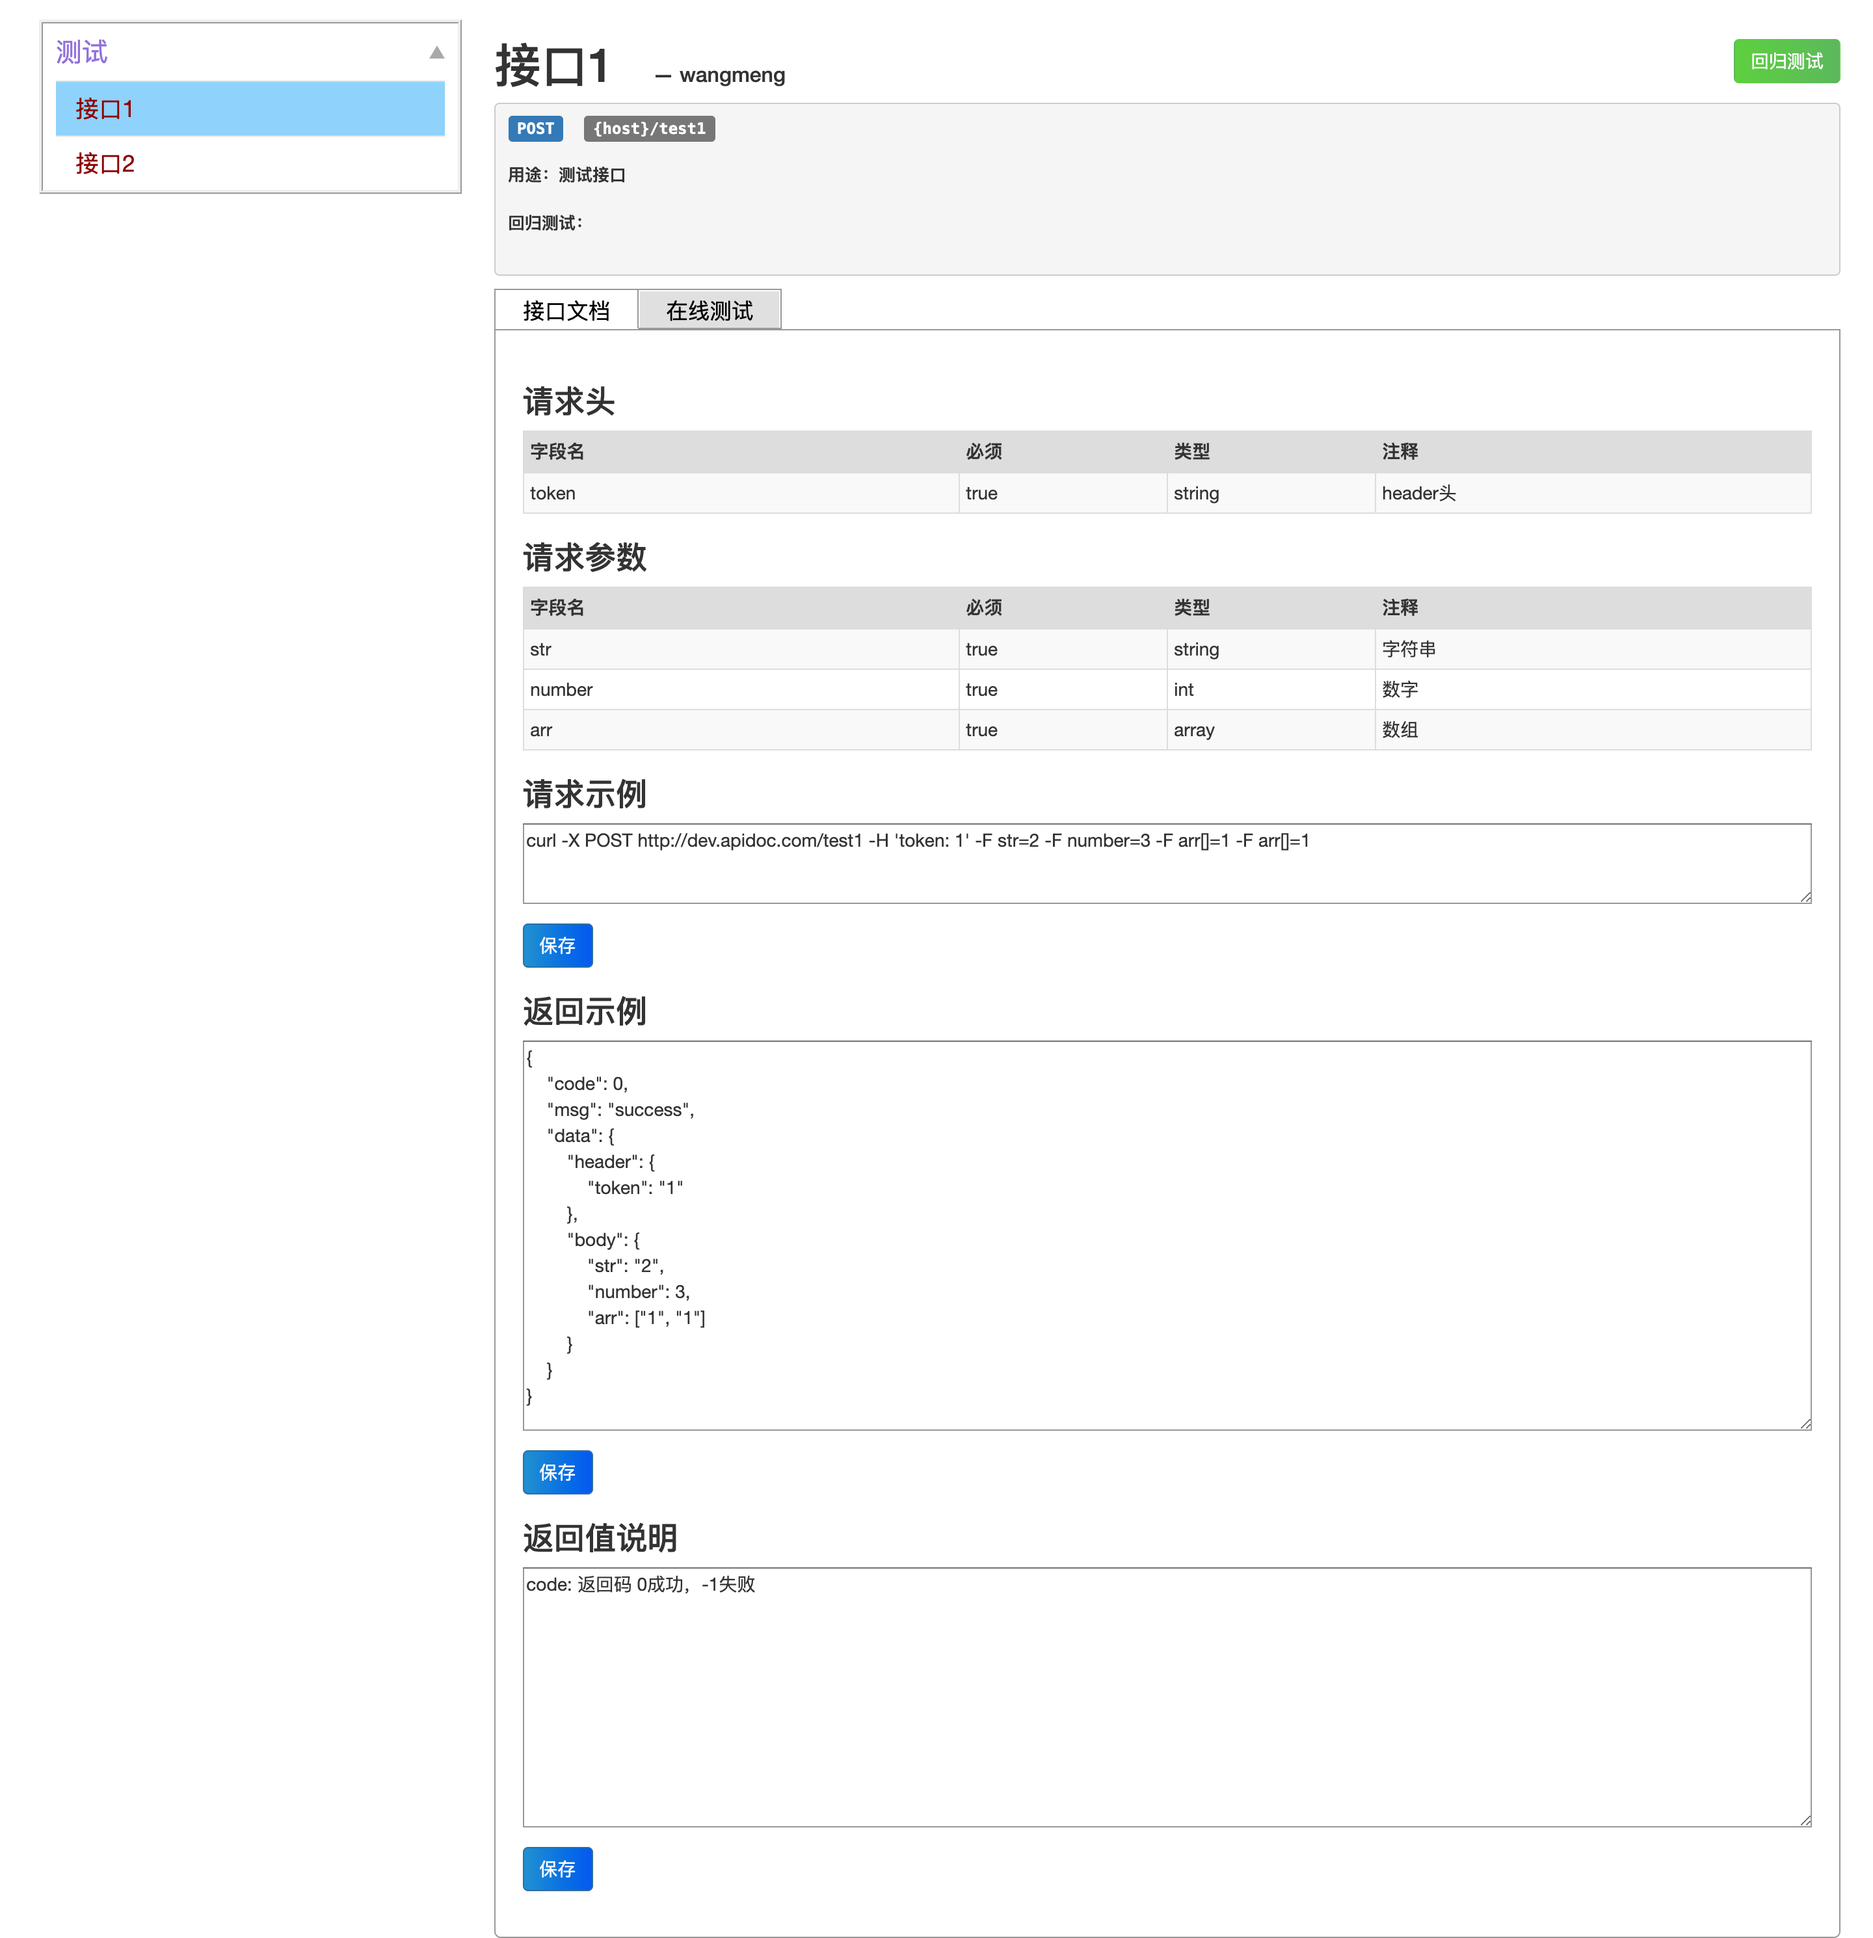
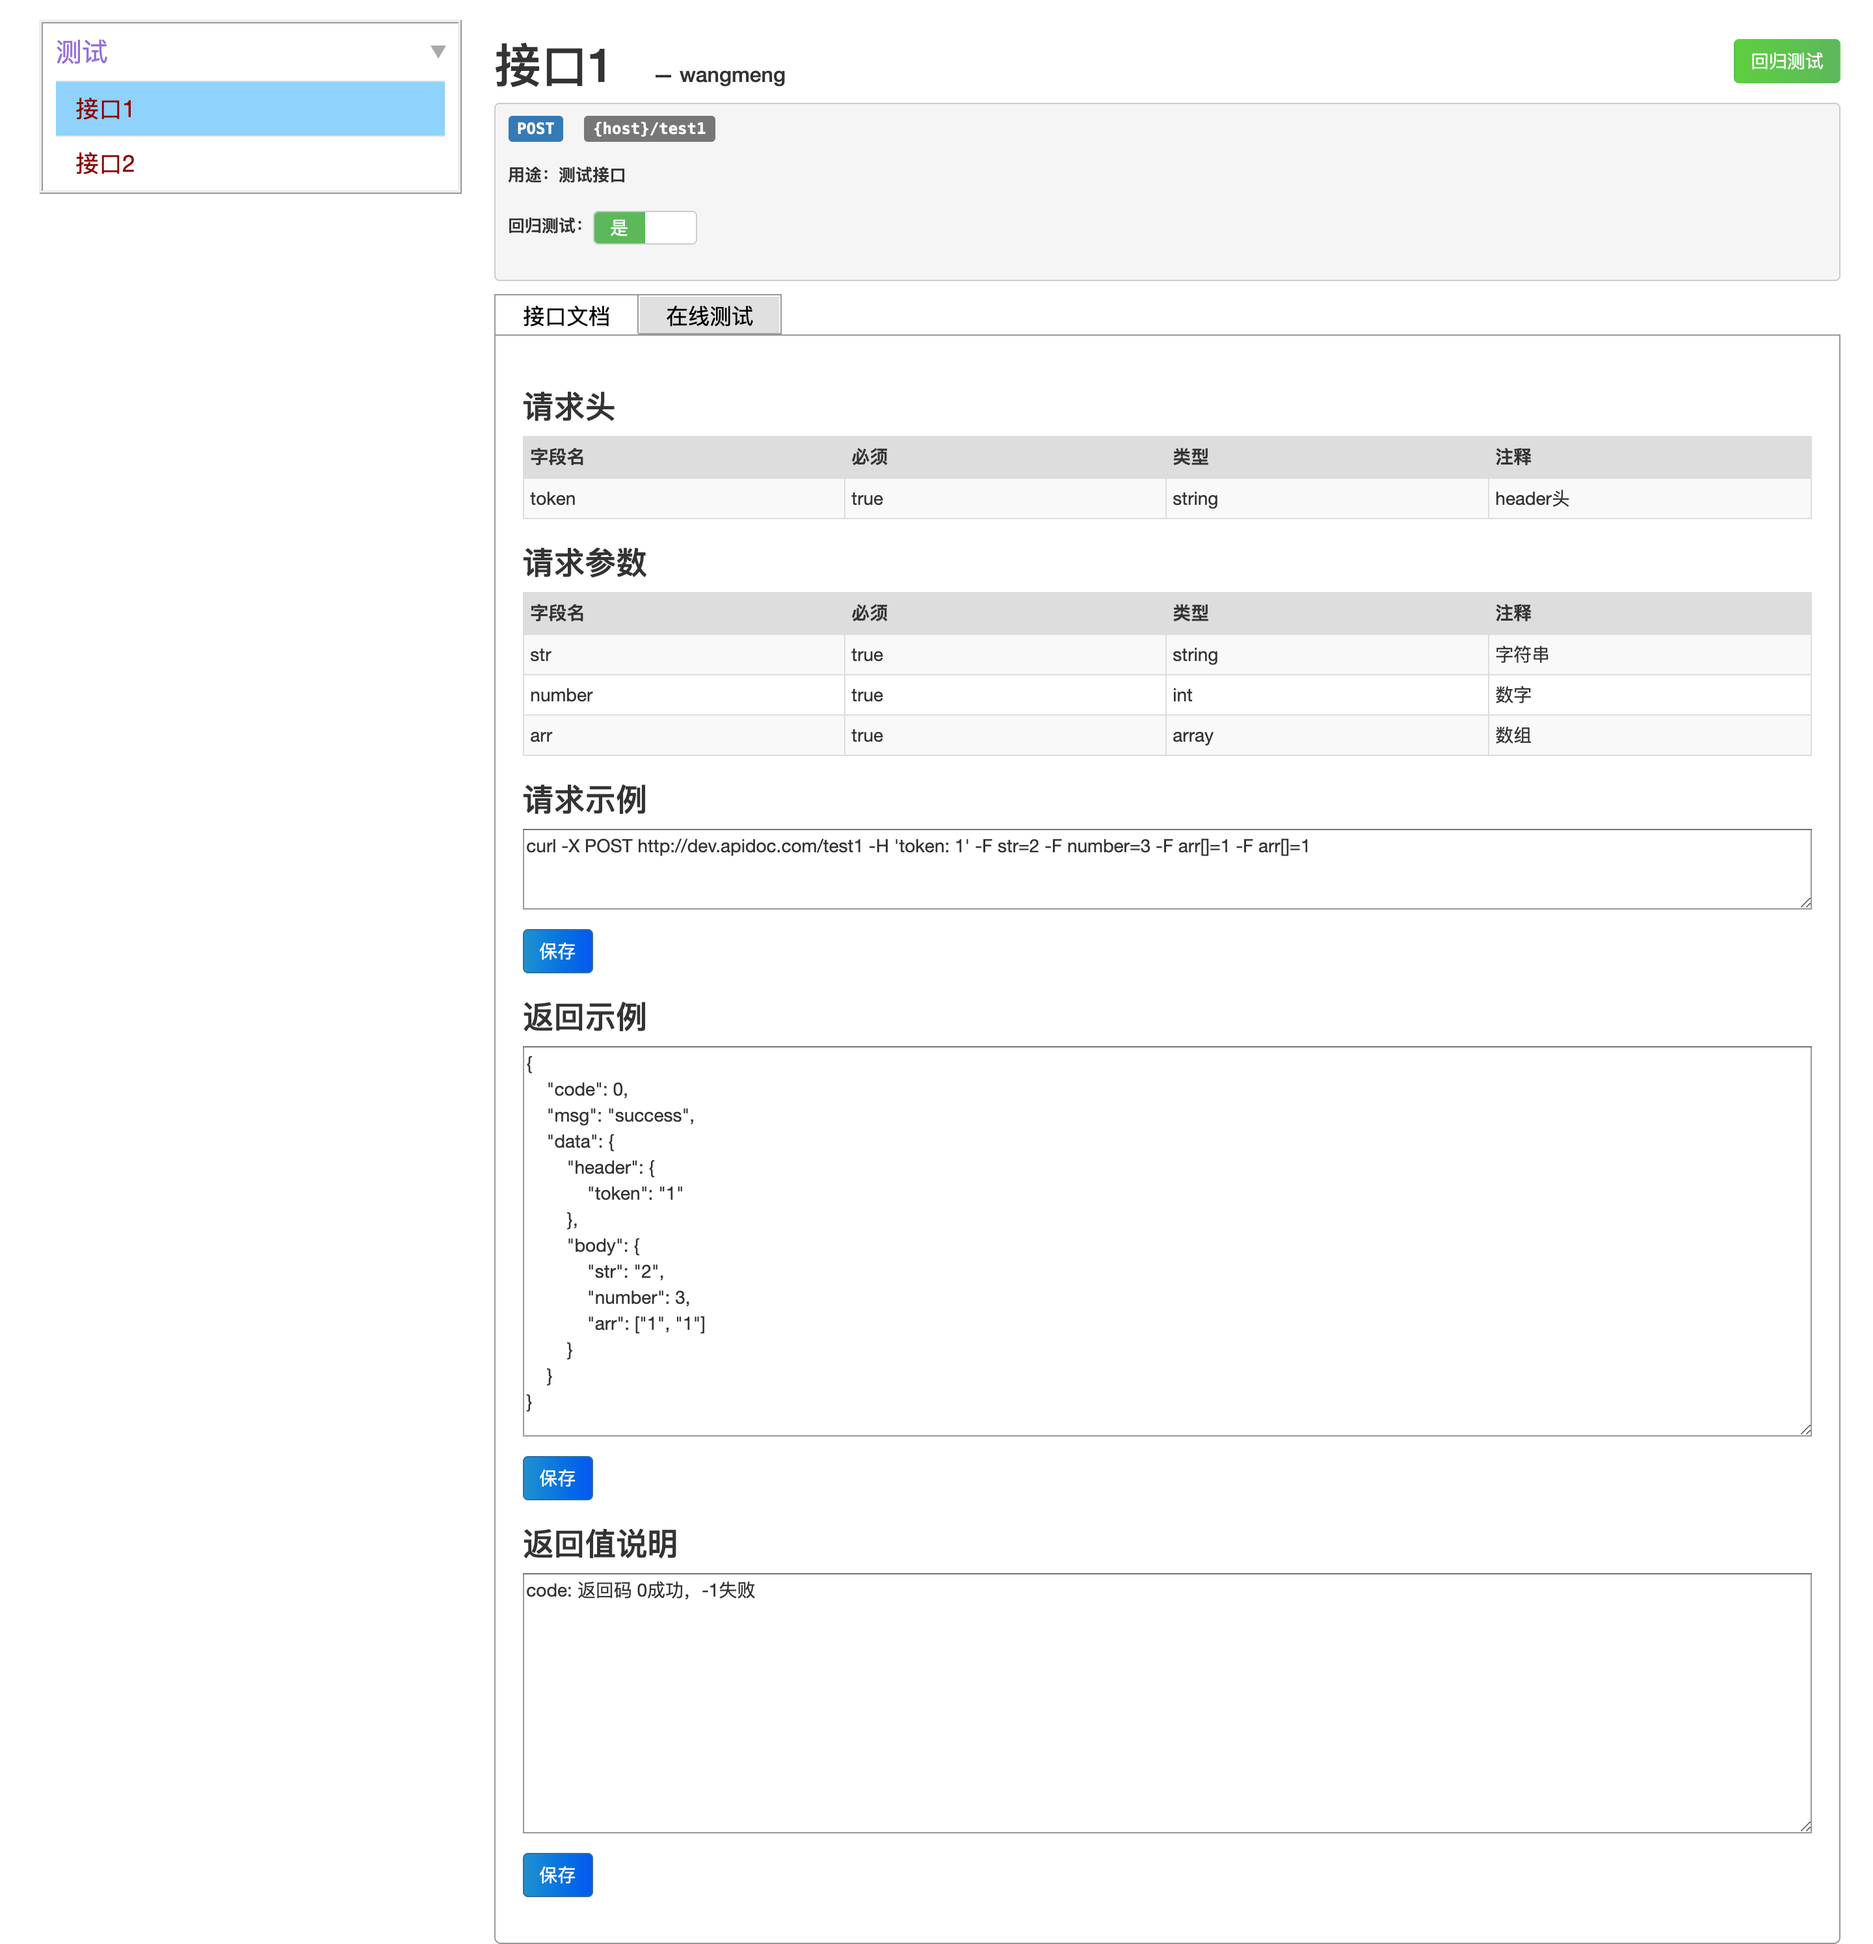
回归测试面板新增接口的请求方式

diff --git a/src/assets/css/treeMenu.css b/src/assets/css/treeMenu.css
@@ -136,9 +136,9 @@
 
 .TreeMenu .TreeArrowDown {
 	/** 右边三角箭头的样式 **/
-	border-left: 6px solid transparent;
-	border-right: 6px solid transparent;
-	border-top: 10px solid darkgray;
+	border-top: 6px solid transparent;
+    border-bottom: 6px solid transparent;
+    border-left: 10px solid darkgray;
 	display: inline-block;
 	width: 0px;
 	height: 0px;
@@ -151,11 +151,11 @@
 
 .TreeMenu .Level.active .TreeArrowDown.rotate {
 	/** 选中当前菜单右边三角箭头逆时针旋转180度 **/
-	-webkit-transform: rotate(-180deg);
-	-moz-transform: rotate(-180deg);
-	-ms-transform: rotate(-180deg);
-	-o-transform: rotate(-180deg);
-	transform: rotate(-180deg);
+	-webkit-transform: rotate(90deg);
+	-moz-transform: rotate(90deg);
+	-ms-transform: rotate(90deg);
+	-o-transform: rotate(90deg);
+	transform: rotate(90deg);
 }
 
 .TreeMenu .Level .MenuBox {

diff --git a/src/views/api.blade.php b/src/views/api.blade.php
@@ -10,11 +10,11 @@
         <script type="text/javascript" src="{{ URL::asset('/vendor/document/js/treeMenu.js')}}?v=201808271719"></script>
         <script type="text/javascript" src="{{ URL::asset('/vendor/document/js/bootstrap.min.js') }}"></script>
         <script type="text/javascript" src="{{ URL::asset('/vendor/document/js/bootstrap-select.js') }}"></script>
-        <script src="https://cdnjs.cloudflare.com/ajax/libs/bootstrap-switch/3.3.2/js/bootstrap-switch.min.js"></script>
+        <script type="text/javascript" src="{{ URL::asset('/vendor/document/js/bootstrap-switch.min.js') }}"></script>
         <link rel="stylesheet" href="{{ URL::asset('/vendor/document/css/treeMenu.css') }}">
         <link rel="stylesheet" href="{{ URL::asset('/vendor/document/css/bootstrap.css') }}">
         <link rel="stylesheet" href="{{ URL::asset('/vendor/document/css/bootstrap-select.css') }}">
-        <link href="https://cdnjs.cloudflare.com/ajax/libs/bootstrap-switch/3.3.2/css/bootstrap3/bootstrap-switch.min.css" rel="stylesheet">
+        <link rel="stylesheet" href="{{ URL::asset('/vendor/document/css/bootstrap-switch.min.css') }}">
 
 
         <title>在线测试API文档</title>
@@ -37,7 +37,11 @@
             .submit-example{background: linear-gradient(to right, #2091cf, #0758f0);}
             #regression_testing_detail .panel{margin-bottom: 5px;}
             .panel-title>.label{display: inline-block;}
-            .panel-title>.label-default{margin-right: 50px;}
+            .panel-title>.label-default{margin-right: 5px;}
+            .glyphicon {top: 4px}
+            .bootstrap-switch .bootstrap-switch-handle-off, .bootstrap-switch .bootstrap-switch-handle-on, .bootstrap-switch .bootstrap-switch-label{
+                line-height: 12px
+            }
         </style>
 
     </head>
@@ -284,7 +288,7 @@
 
                                 html += "<div class='panel panel-default'><div class='panel-heading' style='background-color: #e9e9ec;'>"
                                     + "<h3 class='panel-title'><span class='label label-primary'>"
-                                    + temp.title + "</span>&nbsp;<span class='label label-default'>"
+                                    + temp.title + "</span>&nbsp;<span class='label label-info'>" + temp.method + "</span>&nbsp;&nbsp;<span class='label label-default'>"
                                     + temp.url + "</span>&nbsp;"
                                     + "<span class='" + fail_count_class + "'>失败："
                                     + temp.fail_count + "</span>&nbsp;"
